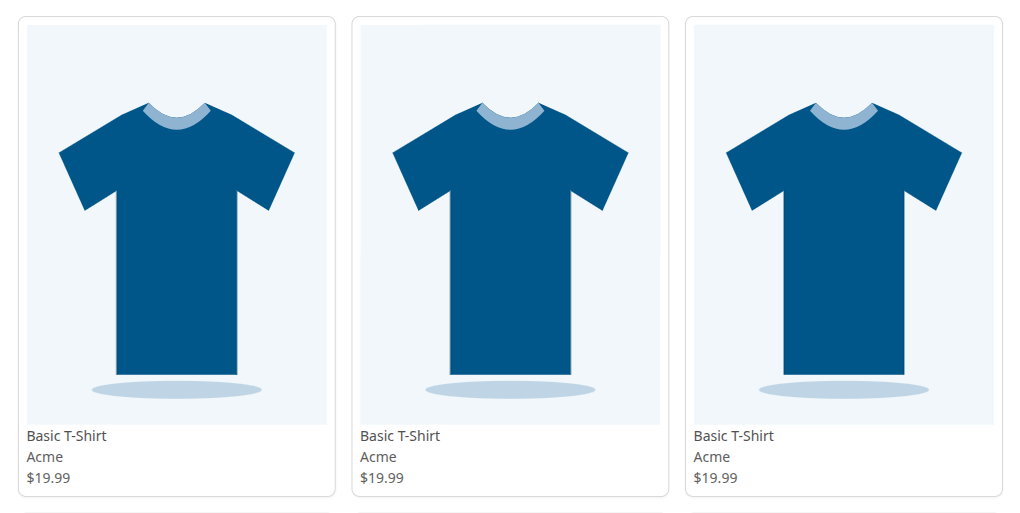
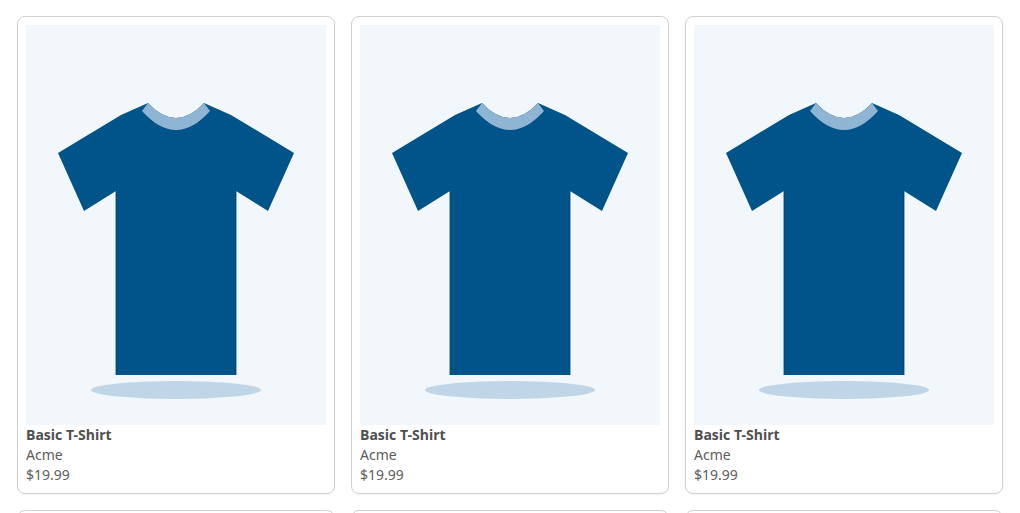
Set one font weight rule

diff --git a/src/components/Atoms/Button/buttonStyles.ts b/src/components/Atoms/Button/buttonStyles.ts
@@ -5,7 +5,7 @@ import { focusRing } from "../../styles/focusRing.js";
 // `compoundVariants` because `enabled:` never matches an `<a>`. The gap between children (an icon
 // and a label) is half the horizontal padding, so it scales with the size.
 export const buttonStyles = tv({
-  base: ["font-bold inline-flex items-center enabled:cursor-pointer", focusRing],
+  base: ["font-medium inline-flex items-center enabled:cursor-pointer", focusRing],
   variants: {
     variant: {
       primary: "rounded-sm bg-primary text-on-primary",
@@ -14,7 +14,7 @@ export const buttonStyles = tv({
       outline: "rounded-sm border border-neutral-400 bg-surface text-neutral-900",
     },
     size: {
-      small: "min-h-8 gap-1 text-xs px-2 py-1",
+      small: "min-h-8 gap-1 text-sm px-2 py-1",
       medium: "min-h-10 gap-2 text-sm px-4 py-2",
       large: "min-h-12 gap-3 text-lg px-6 py-2",
     },

diff --git a/src/components/Molecules/ProductCard/ProductCard.tsx b/src/components/Molecules/ProductCard/ProductCard.tsx
@@ -56,7 +56,7 @@ const productCardStyles = tv({
     tag: "absolute top-2 left-2 bg-neutral-950 text-neutral-25 text-xs px-2 py-1 rounded-sm",
     body: "p-2 flex flex-col",
     productInfo: "flex flex-col",
-    title: "text-sm font-medium",
+    title: "text-sm",
     titleAction:
       "text-left after:absolute after:inset-0 after:content-[''] focus-visible:outline-hidden focus-visible:after:ring-2 focus-visible:after:ring-inset focus-visible:after:ring-primary focus-visible:after:rounded-lg",
     subTitle: "text-sm text-neutral-600",

diff --git a/src/components/Atoms/SearchInput/SearchInput.tsx b/src/components/Atoms/SearchInput/SearchInput.tsx
@@ -31,7 +31,7 @@ const searchInputStyles = tv({
   ],
   variants: {
     variantSize: {
-      small: "h-8 text-xs px-2",
+      small: "h-8 text-sm px-2",
       medium: "h-10 text-sm px-3",
       large: "h-12 text-base px-4",
     },
